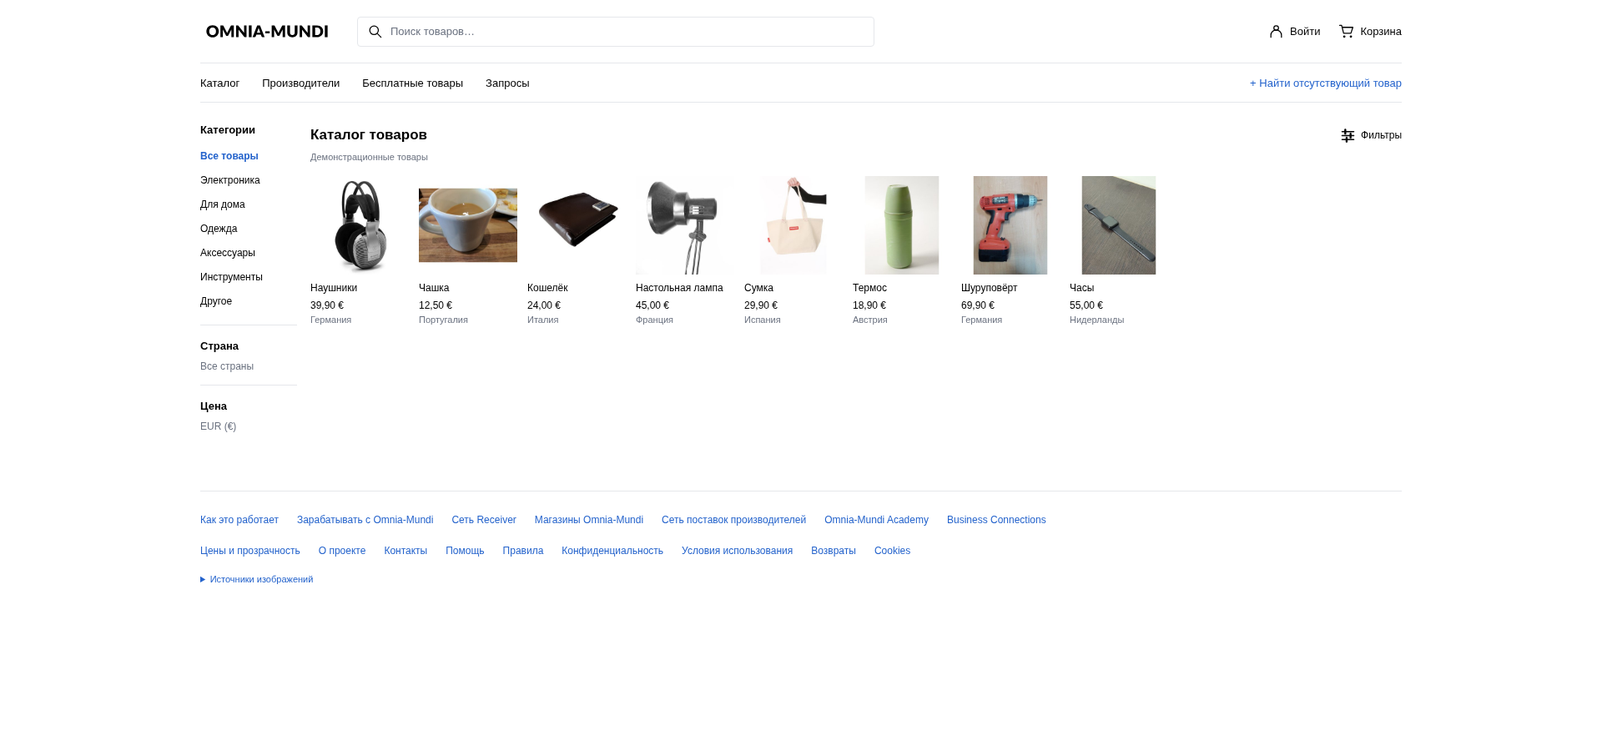
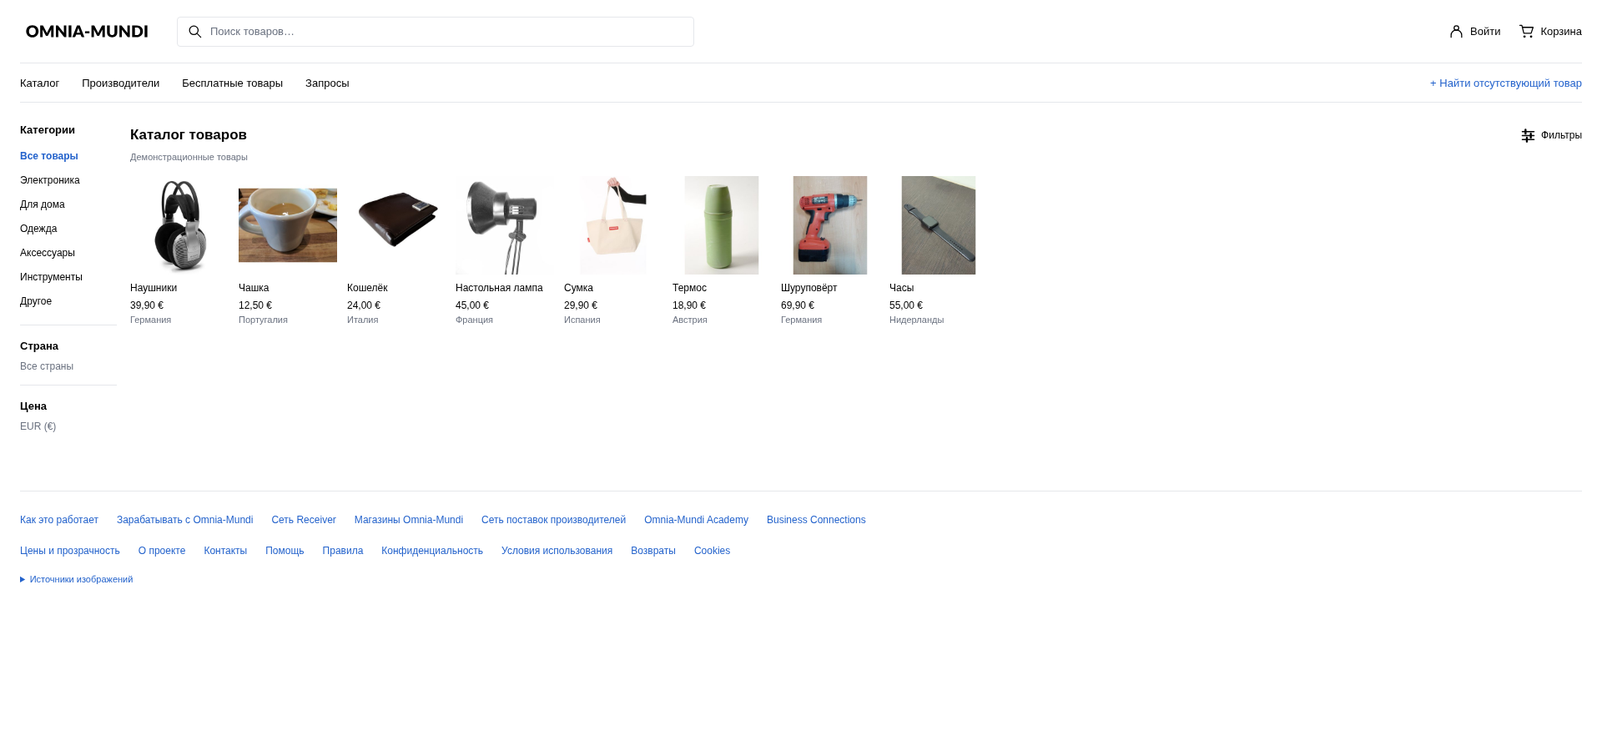
Set page max width to 1920px and verify centered wider viewports

diff --git a/style.css b/style.css
@@ -1,5 +1,5 @@
 :root{color-scheme:light;font-family:Arial,Helvetica,sans-serif;color:#000;background:#fff;font-size:13px}
-*{box-sizing:border-box}body{margin:0}button,input{font:inherit}button{cursor:pointer}button,a,input{ -webkit-tap-highlight-color:transparent}button{border:0;background:none;color:inherit;padding:0}a{color:#2463cc;text-decoration:none}a:hover,button:hover{text-decoration:underline}:focus-visible{outline:2px solid #2463cc;outline-offset:4px}svg{width:19px;height:19px;fill:none;stroke:currentColor;stroke-width:1.6;stroke-linecap:round;stroke-linejoin:round;flex-shrink:0}.page{padding:0 24px;max-width:1488px;margin:auto}.header{min-height:76px;display:flex;align-items:center;gap:28px;border-bottom:1px solid #e5e7eb}.logo-link{flex-shrink:0;display:flex}.logo-link img{width:160px;height:auto;display:block}.search{display:flex;align-items:center;gap:9px;border:1px solid #e5e7eb;border-radius:4px;min-height:36px;flex:1;max-width:620px;padding:0 11px;margin:0}.search input{width:100%;min-width:0;border:0;background:#fff;padding:9px 0;color:#000}.search input::placeholder{color:#6b7280;opacity:1}.account-actions{display:flex;gap:22px;margin-left:auto}.account-actions button{display:flex;align-items:center;gap:7px;min-height:36px;white-space:nowrap}.primary-nav{min-height:47px;display:flex;align-items:center;gap:27px;border-bottom:1px solid #e5e7eb;flex-wrap:wrap;padding:7px 0}.primary-nav a,.primary-nav button{color:#000;min-height:30px;display:flex;align-items:center;text-align:left}.primary-nav .request-link{margin-left:auto;color:#2463cc}.layout{display:grid;grid-template-columns:116px minmax(0,1fr);gap:16px;padding:25px 0 38px;min-height:436px;align-items:start}.filters section{border-bottom:1px solid #e5e7eb;padding:0 0 15px;margin-bottom:17px}.filters section:last-child{border:0}.filters h2{font-size:13px;font-weight:600;margin:0 0 10px}.filters p{font-size:12px;margin:0;color:#6b7280}#categories{display:grid;gap:2px}#categories button{display:block;width:100%;text-align:left;min-height:27px;font-size:12px}#categories [aria-pressed=true]{color:#2463cc;font-weight:600}.catalog{width:100%;max-width:100%;min-width:0}.catalog-heading{display:flex;align-items:center;justify-content:space-between;gap:12px}.catalog-heading h1{font-size:17px;font-weight:600;margin:0}.catalog-heading button{display:flex;align-items:center;gap:6px;font-size:12px;min-height:28px}.demo-label{color:#6b7280;font-size:11px;margin:6px 0 17px}.products{display:grid;grid-template-columns:repeat(auto-fill,118px);column-gap:12px;row-gap:23px}.products article{width:118px;min-width:0}.products img{width:118px;height:118px;aspect-ratio:1 / 1;object-fit:contain;display:block}.products h2{font-size:12px;font-weight:400;line-height:1.4;margin:8px 0 3px;overflow-wrap:anywhere}.products p{margin:0;line-height:1.5}.price{font-size:12px}.country{font-size:11px;color:#6b7280}.slider{stroke-width:3;paint-order:stroke;stroke:#000}.result-status{position:absolute;width:1px;height:1px;padding:0;margin:-1px;overflow:hidden;clip-path:inset(50%);white-space:nowrap}#empty{font-size:13px;line-height:1.5;max-width:360px}footer{border-top:1px solid #e5e7eb;padding:21px 0 28px}footer nav{display:flex;gap:12px 22px;flex-wrap:wrap;max-width:1060px}footer button{font-size:12px;color:#2463cc;text-align:left;min-height:25px}.skip-link{position:absolute;top:-60px;background:#fff;padding:12px;z-index:5}.skip-link:focus{top:0}dialog{border:1px solid #e5e7eb;border-radius:5px;padding:24px;max-width:calc(100% - 32px);font-size:14px}dialog::backdrop{background:#0004}dialog p{margin:0 0 18px}dialog button{color:#2463cc;min-height:32px} [hidden]{display:none!important}
+*{box-sizing:border-box}body{margin:0}button,input{font:inherit}button{cursor:pointer}button,a,input{ -webkit-tap-highlight-color:transparent}button{border:0;background:none;color:inherit;padding:0}a{color:#2463cc;text-decoration:none}a:hover,button:hover{text-decoration:underline}:focus-visible{outline:2px solid #2463cc;outline-offset:4px}svg{width:19px;height:19px;fill:none;stroke:currentColor;stroke-width:1.6;stroke-linecap:round;stroke-linejoin:round;flex-shrink:0}.page{padding:0 24px;max-width:1920px;margin:auto}.header{min-height:76px;display:flex;align-items:center;gap:28px;border-bottom:1px solid #e5e7eb}.logo-link{flex-shrink:0;display:flex}.logo-link img{width:160px;height:auto;display:block}.search{display:flex;align-items:center;gap:9px;border:1px solid #e5e7eb;border-radius:4px;min-height:36px;flex:1;max-width:620px;padding:0 11px;margin:0}.search input{width:100%;min-width:0;border:0;background:#fff;padding:9px 0;color:#000}.search input::placeholder{color:#6b7280;opacity:1}.account-actions{display:flex;gap:22px;margin-left:auto}.account-actions button{display:flex;align-items:center;gap:7px;min-height:36px;white-space:nowrap}.primary-nav{min-height:47px;display:flex;align-items:center;gap:27px;border-bottom:1px solid #e5e7eb;flex-wrap:wrap;padding:7px 0}.primary-nav a,.primary-nav button{color:#000;min-height:30px;display:flex;align-items:center;text-align:left}.primary-nav .request-link{margin-left:auto;color:#2463cc}.layout{display:grid;grid-template-columns:116px minmax(0,1fr);gap:16px;padding:25px 0 38px;min-height:436px;align-items:start}.filters section{border-bottom:1px solid #e5e7eb;padding:0 0 15px;margin-bottom:17px}.filters section:last-child{border:0}.filters h2{font-size:13px;font-weight:600;margin:0 0 10px}.filters p{font-size:12px;margin:0;color:#6b7280}#categories{display:grid;gap:2px}#categories button{display:block;width:100%;text-align:left;min-height:27px;font-size:12px}#categories [aria-pressed=true]{color:#2463cc;font-weight:600}.catalog{width:100%;max-width:100%;min-width:0}.catalog-heading{display:flex;align-items:center;justify-content:space-between;gap:12px}.catalog-heading h1{font-size:17px;font-weight:600;margin:0}.catalog-heading button{display:flex;align-items:center;gap:6px;font-size:12px;min-height:28px}.demo-label{color:#6b7280;font-size:11px;margin:6px 0 17px}.products{display:grid;grid-template-columns:repeat(auto-fill,118px);column-gap:12px;row-gap:23px}.products article{width:118px;min-width:0}.products img{width:118px;height:118px;aspect-ratio:1 / 1;object-fit:contain;display:block}.products h2{font-size:12px;font-weight:400;line-height:1.4;margin:8px 0 3px;overflow-wrap:anywhere}.products p{margin:0;line-height:1.5}.price{font-size:12px}.country{font-size:11px;color:#6b7280}.slider{stroke-width:3;paint-order:stroke;stroke:#000}.result-status{position:absolute;width:1px;height:1px;padding:0;margin:-1px;overflow:hidden;clip-path:inset(50%);white-space:nowrap}#empty{font-size:13px;line-height:1.5;max-width:360px}footer{border-top:1px solid #e5e7eb;padding:21px 0 28px}footer nav{display:flex;gap:12px 22px;flex-wrap:wrap;max-width:1060px}footer button{font-size:12px;color:#2463cc;text-align:left;min-height:25px}.skip-link{position:absolute;top:-60px;background:#fff;padding:12px;z-index:5}.skip-link:focus{top:0}dialog{border:1px solid #e5e7eb;border-radius:5px;padding:24px;max-width:calc(100% - 32px);font-size:14px}dialog::backdrop{background:#0004}dialog p{margin:0 0 18px}dialog button{color:#2463cc;min-height:32px} [hidden]{display:none!important}
 @media(max-width:767px){.page{padding:0 16px}.header{gap:16px;flex-wrap:wrap;padding:14px 0}.account-actions{gap:14px}.search{order:3;flex-basis:100%;max-width:none}.primary-nav{gap:4px 20px;padding:8px 0}.primary-nav .request-link{margin-left:0;flex-basis:100%}.layout{padding-top:19px}}
 @media(max-width:639px){.page{padding:0 16px}.layout{display:flex;flex-direction:column;gap:16px;min-height:0;padding-bottom:30px}.catalog{width:100%}.catalog-heading{max-width:100%}.products{column-gap:12px;row-gap:22px}.filters{width:100%;order:0;border-bottom:1px solid #e5e7eb;padding-bottom:8px}.catalog{order:1}#categories{grid-template-columns:repeat(2,minmax(0,1fr));gap:2px 12px}.filters section{margin-bottom:12px;padding-bottom:10px}.catalog-heading h1{font-size:16px}.logo-link img{width:150px}.account-actions button{font-size:12px;gap:4px}.account-actions{gap:12px}.header{gap:10px}.demo-label{margin-bottom:15px}footer nav{gap:5px 18px}footer{padding-top:16px}}
 .image-sources{margin-top:16px;font-size:11px;color:#6b7280;max-width:1060px}.image-sources summary{cursor:pointer;color:#2463cc;min-height:25px;display:list-item;width:fit-content}.image-sources p{line-height:1.6}.image-sources ul{padding-left:18px;line-height:1.65}.image-sources li{margin:8px 0;overflow-wrap:anywhere}

diff --git a/tests/homepage.py b/tests/homepage.py
@@ -18,10 +18,13 @@ with sync_playwright() as p:
     page.on('pageerror', lambda error: errors.append(str(error)))
     page.on('request', lambda request: external_requests.append(request.url) if not request.url.startswith(args.url.rstrip('/') + '/') else None)
     page.goto(args.url)
-    for width in [320, 375, 390, 430, 768, 1024, 1440, 1920]:
+    for width in [320, 375, 390, 430, 768, 1024, 1440, 1920, 2560]:
         page.set_viewport_size({'width': width, 'height': 900})
         page.wait_for_timeout(50)
         assert page.evaluate('document.documentElement.scrollWidth <= innerWidth'), width
+        container = page.locator('.page').bounding_box()
+        assert abs(container['width'] - min(width, 1920)) < 1, (width, container)
+        assert abs(container['x'] - max(0, (width - 1920) / 2)) < 1, (width, container)
         positions = page.locator('.products img').evaluate_all('(imgs)=>imgs.map(i=>({w:i.getBoundingClientRect().width,h:i.getBoundingClientRect().height,x:i.getBoundingClientRect().x,y:i.getBoundingClientRect().y}))')
         assert len(positions) == 8
         assert all(i['w'] == 118 and i['h'] == 118 for i in positions)
@@ -35,7 +38,7 @@ with sync_playwright() as p:
             assert abs(page.locator('.catalog').bounding_box()['x'] + page.locator('.catalog').bounding_box()['width'] - page.locator('.layout').bounding_box()['x'] - page.locator('.layout').bounding_box()['width']) < 1
         if not args.layout_only:
             assert page.locator('.products img').evaluate_all('(imgs)=>imgs.every(i=>i.complete && i.naturalWidth>0)'), 'Photos must be local and loaded'
-            if width in [320, 390, 430, 1440, 1920]:
+            if width in [320, 390, 430, 1440, 1920, 2560]:
                 Path('docs/screenshots').mkdir(parents=True, exist_ok=True)
                 page.screenshot(path=f'docs/screenshots/homepage-{width}.png', full_page=True)
         # Long translated names must wrap rather than clip or widen a column.
@@ -52,7 +55,7 @@ with sync_playwright() as p:
     assert len(set(expanded)) == math.floor((page.locator('.products').bounding_box()['width'] + 12) / 130)
     assert len(set(expanded)) > 8
     page.locator('.products').evaluate('(grid)=>{while(grid.children.length>8)grid.lastElementChild.remove();}')
-    print('PASS additional demo cards expand beyond eight columns at 1920px')
+    print('PASS additional demo cards use available width inside centered 1920px container at 2560px')
     page.set_viewport_size({'width': 390, 'height': 900})
     page.get_by_role('button', name='Фильтры', exact=True).click()
     assert page.locator('#filters').is_visible()

diff --git a/docs/validation-2026-10-25.md b/docs/validation-2026-10-25.md
@@ -12,10 +12,10 @@
 
 Запуск: `python3 -m http.server 3010 --bind 127.0.0.1` из корня. После перезапуска сервера `python3 tests/homepage.py` успешно завершён:
 
-- 320, 375, 390, 430, 768, 1024, 1440, 1920 CSS px: горизонтального переполнения нет.
+- 320, 375, 390, 430, 768, 1024, 1440, 1920, 2560 CSS px: горизонтального переполнения нет.
 - Все восемь изображений загружены локально; реальные bounding box 118×118 px.
-- Число колонок автоматически получается из ширины каталога: на 320/375/390 px — 2; 430 px — 3; 768 px — 4; 1024 px — 6; 1440/1920 px — все 8 товаров в одном ряду. Каталог занимает доступную ширину после фильтров; изображения не растягиваются. С 20 временными карточками на 1920 px помещается 10 колонок: скрытого максимума 4 или 8 нет.
-- Длинные русские/английские названия переносятся без обрезания и горизонтального переполнения на всех восьми ширинах.
+- Число колонок автоматически получается из ширины каталога: на 320/375/390 px — 2; 430 px — 3; 768 px — 4; 1024 px — 6; 1440/1920 px — все 8 товаров в одном ряду. Каталог занимает доступную ширину после фильтров; изображения не растягиваются. С 20 временными карточками в окне 2560 px и контейнере 1920 px помещается 13 колонок: скрытого максимума 4 или 8 нет.
+- Длинные русские/английские названия переносятся без обрезания и горизонтального переполнения на всех девяти ширинах.
 - Локальный поиск, сочетание поиска с категориями, пустая выдача, восстановление полного каталога: прошли.
 - Раскрытие мобильных фильтров, переход к фильтрам на десктопе, переход к каталогу: прошли.
 - Все зарезервированные коммерческие кнопки и нижняя навигация показывают «Раздел находится в разработке»; Escape закрывает диалог и возвращает фокус.
@@ -24,7 +24,7 @@
 - SVG-логотип и оба TXT побайтно совпадают с origin/main.
 - `node --check app.js`, `node --check strings.ru.js`, `git diff --check`: прошли.
 
-Скриншоты созданы тестом и визуально просмотрены: [1440 px](screenshots/homepage-1440.png), [390 px](screenshots/homepage-390.png), [1920 px](screenshots/homepage-1920.png), [320 px](screenshots/homepage-320.png), [430 px](screenshots/homepage-430.png). Для включённой фотографии кошелька см. [атрибуцию и лицензию](../ASSETS.md).
+Скриншоты созданы тестом и визуально просмотрены: [1440 px](screenshots/homepage-1440.png), [390 px](screenshots/homepage-390.png), [1920 px](screenshots/homepage-1920.png), [320 px](screenshots/homepage-320.png), [430 px](screenshots/homepage-430.png), [2560 px](screenshots/homepage-2560.png). Для включённой фотографии кошелька см. [атрибуцию и лицензию](../ASSETS.md).
 
 ## Границы проверки
 
@@ -41,3 +41,8 @@
 
 
 Последнее [уточнение владельца](https://github.com/homoprovincialis/Omnia-Mundi/pull/3#issuecomment-6397996563) отменяет также фиксированное число колонок для телефона. Единственная правка пользовательского CSS в этой итерации — удаление `grid-template-columns:repeat(2,118px)` из мобильного media query. Теперь весь каталог использует общий автоматический алгоритм. Остальные стили и поведение не менялись; скриншоты 390/1440/1920 после повторной генерации совпадают с прежними побайтно, добавлены 320 и 430.
+
+
+### Итог после ограничения контейнера 1920 px
+
+По [последнему решению владельца](https://github.com/homoprovincialis/Omnia-Mundi/pull/3#issuecomment-6398083571) единственная правка пользовательского CSS — `max-width:1920px` вместо 1488 px у `.page`. Полный тест повторён на девяти ширинах, включая 1440/1920/2560 и 320/390 px. Проверена реальная ширина контейнера `min(ширина окна,1920)`, его центрирование (при 2560 px боковые внешние поля по 320 px), автоматические колонки, отсутствие переполнения и размеры фото. Финальные скриншоты 1440/1920/2560 и мобильные пересозданы; 1440 и мобильные остались побайтно прежними. Предыдущие записи о побайтовой неизменности 1920 px описывают предыдущую итерацию: в текущей этот скриншот изменился из-за увеличения контейнера.

diff --git a/README.md b/README.md
@@ -28,7 +28,7 @@ node --check strings.ru.js
 python3 tests/homepage.py
 ```
 
-Проверяются ширины 320, 375, 390, 430, 768, 1024, 1440 и 1920 px, отсутствие горизонтального переполнения, фиксированные фото 118×118, автоматическое число колонок по доступной ширине на всех экранах, включая телефоны, локальный поиск, совместная фильтрация, пустая выдача, мобильная панель, сообщения будущих функций, Escape и возврат фокуса. По последнему решению владельца восемь товаров на 1440 px помещаются в один ряд; прежние требования четырёх колонок на компьютере и двух на телефоне отменены (см. docs/decisions/001-homepage-only.md). Полная проверка дополнительно проверяет загрузку фотографий, хеши и доступность атрибуции, отсутствие внешних запросов и ошибок JavaScript, неизменность логотипа/TXT и создаёт `docs/screenshots/homepage-1440.png` и `homepage-390.png`, `homepage-320.png`, `homepage-430.png` и `homepage-1920.png`.
+Проверяются ширины 320, 375, 390, 430, 768, 1024, 1440, 1920 и 2560 px, отсутствие горизонтального переполнения, фиксированные фото 118×118, автоматическое число колонок по доступной ширине на всех экранах, включая телефоны, локальный поиск, совместная фильтрация, пустая выдача, мобильная панель, сообщения будущих функций, Escape и возврат фокуса. По последнему решению владельца восемь товаров на 1440 px помещаются в один ряд; прежние требования четырёх колонок на компьютере и двух на телефоне отменены (см. docs/decisions/001-homepage-only.md). Полная проверка дополнительно проверяет загрузку фотографий, хеши и доступность атрибуции, отсутствие внешних запросов и ошибок JavaScript, неизменность логотипа/TXT и создаёт `docs/screenshots/homepage-1440.png` и `homepage-390.png`, `homepage-320.png`, `homepage-430.png` и `homepage-1920.png` и `homepage-2560.png`.
 
 Поиск и категории работают только с демонстрационными товарами. Страна и цена — визуальные секции по заданию. Остальные кнопки показывают «Раздел находится в разработке». Нет авторизации, корзинной логики, платежей, финансов, внешних запросов страницы или сбора персональных данных. Сборка, переменные среды, миграции, тестовая БД и очистка данных не требуются.
 
@@ -44,3 +44,5 @@ python3 tests/homepage.py
 - `tests/homepage.py`: проверки реального Chromium.
 
 Не сливать, не включать auto-merge и не публиковать без разрешения владельца. Переход к следующим этапам требует нового задания.
+
+Максимальная ширина контейнера страницы — 1920 CSS px; на более широких окнах сайт центрируется с сохранением прежних внутренних полей.

diff --git a/docs/screenshots/README.md b/docs/screenshots/README.md
@@ -5,9 +5,12 @@
 - `homepage-1440.png` — компьютер.
 - `homepage-390.png` — телефон, полная высота страницы.
 - `homepage-1920.png` — широкий экран.
+- `homepage-2560.png` — окно шире максимума: контейнер 1920 px по центру.
 - `homepage-320.png` — узкий телефон.
 - `homepage-430.png` — широкий телефон.
 
 Обновлены после решения владельца об автоматическом количестве товаров в строке: фиксированного количества колонок нет ни на одном экране. На 1440/1920 px восемь товаров в одном ряду; на 390 px естественно помещаются две колонки, на 430 px — три.
 
 Включённая фотография кошелька: **Pixloom, «A men's wallet.jpg»**, [источник](https://commons.wikimedia.org/wiki/File:A_men%27s_wallet.jpg), [CC BY-SA 4.0](https://creativecommons.org/licenses/by-sa/4.0/). В миниатюре: уменьшение, белые поля, JPEG-оптимизация и удаление EXIF; без ретуши. Производная фотография сохраняет CC BY-SA 4.0, в том числе при включении в эти скриншоты. Остальные фотографии и условия перечислены в [ASSETS.md](../../ASSETS.md). Это не заявление о передаче прав на логотип проекта или о поддержке сайта правообладателями.
+
+После уточнения максимальной ширины скриншоты пересозданы: на 1920 px контейнер занимает всю ширину окна, на 2560 px ограничен 1920 px и центрирован. Остальные скриншоты не изменились побайтно.

diff --git a/docs/decisions/001-homepage-only.md b/docs/decisions/001-homepage-only.md
@@ -14,3 +14,8 @@
 ## Окончательное уточнение: автоматические колонки на всех экранах
 
 [Уточнение владельца в PR #3](https://github.com/homoprovincialis/Omnia-Mundi/pull/3#issuecomment-6397996563) отменяет также фиксированные две колонки на телефоне. Предыдущий пункт о двух колонках до 639 px больше не действует. Единое `repeat(auto-fill,118px)` применяется без переопределения числа колонок в media queries; число определяется фактической шириной каталога. На 390 px естественно помещаются две карточки, на 430 px — три. Фиксированы только ширина фото/карточки и прежний промежуток, не количество столбцов. Остальные стили и исходные TXT не изменяются.
+
+
+## Максимальная ширина 1920 CSS px
+
+[Решение владельца](https://github.com/homoprovincialis/Omnia-Mundi/pull/3#issuecomment-6398083571) заменяет максимум `.page` 1488 px на 1920 px. До 1920 px контейнер занимает ширину окна с прежними внутренними полями; выше 1920 px центрируется через существующее `margin:auto`. 1080 px — высота Full HD и не применяется как ширина контейнера. Автоматическая сетка и фото 118×118 px сохранены, другие пользовательские стили не менялись.
